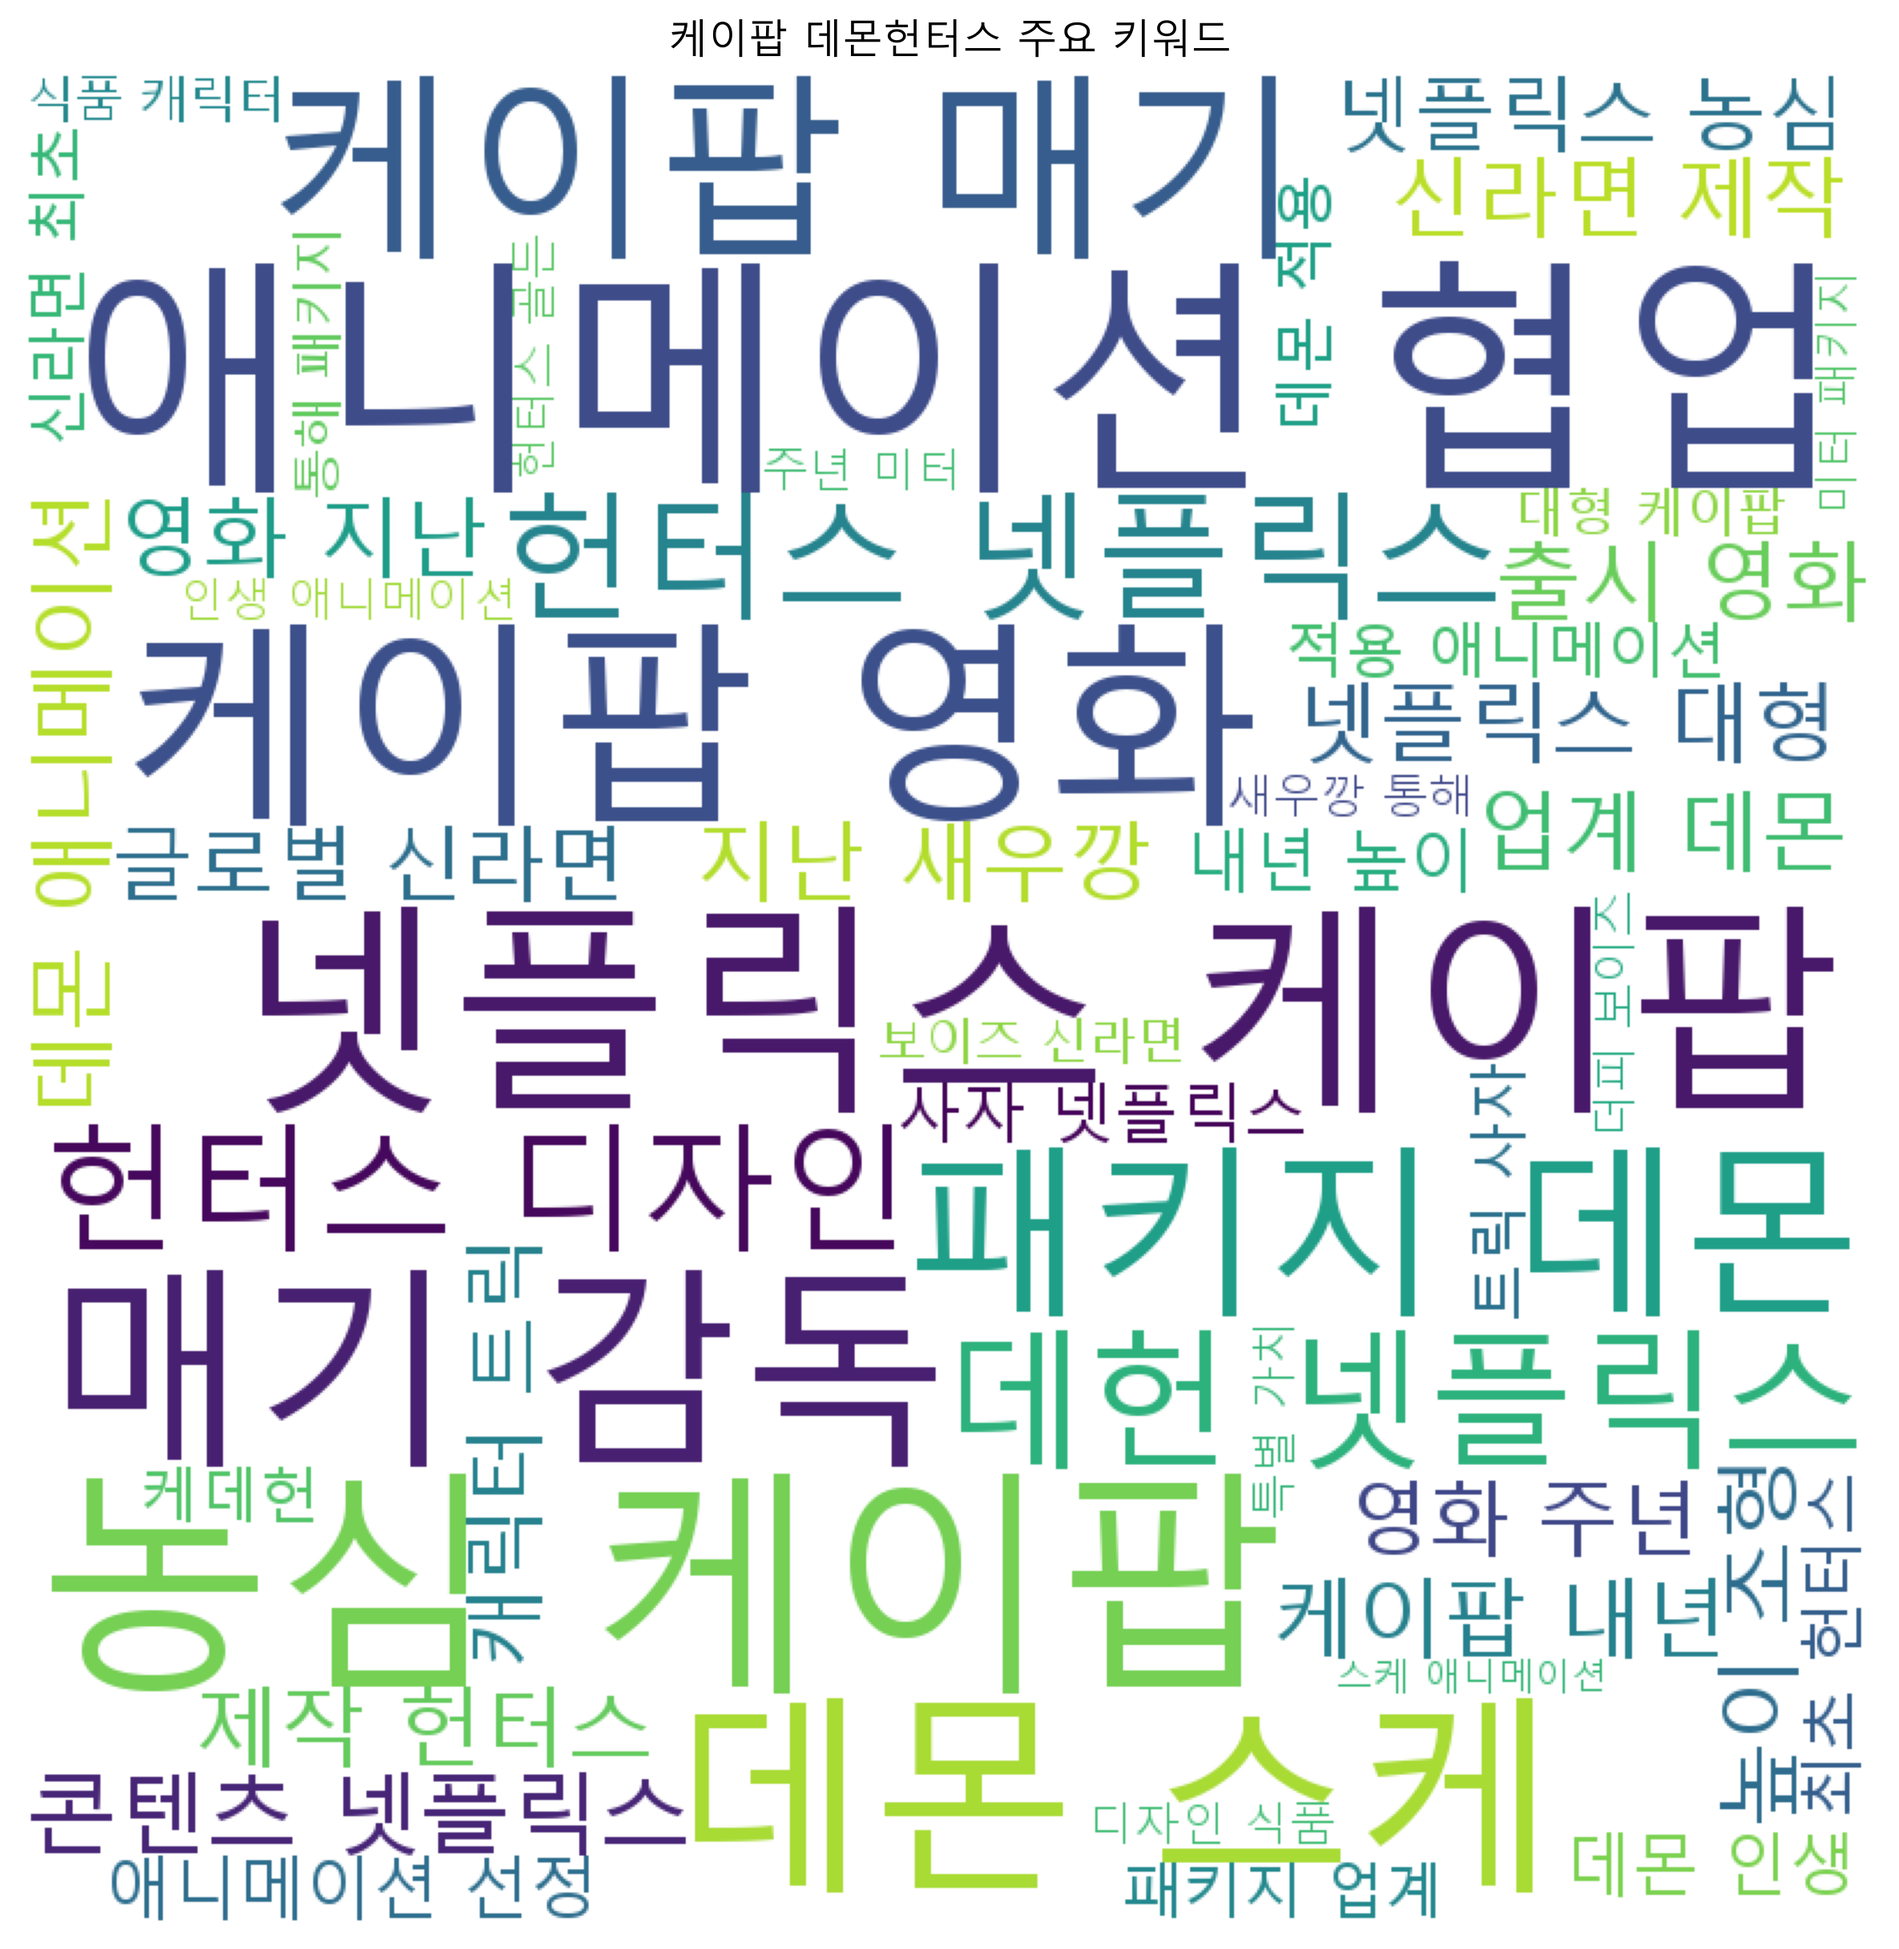
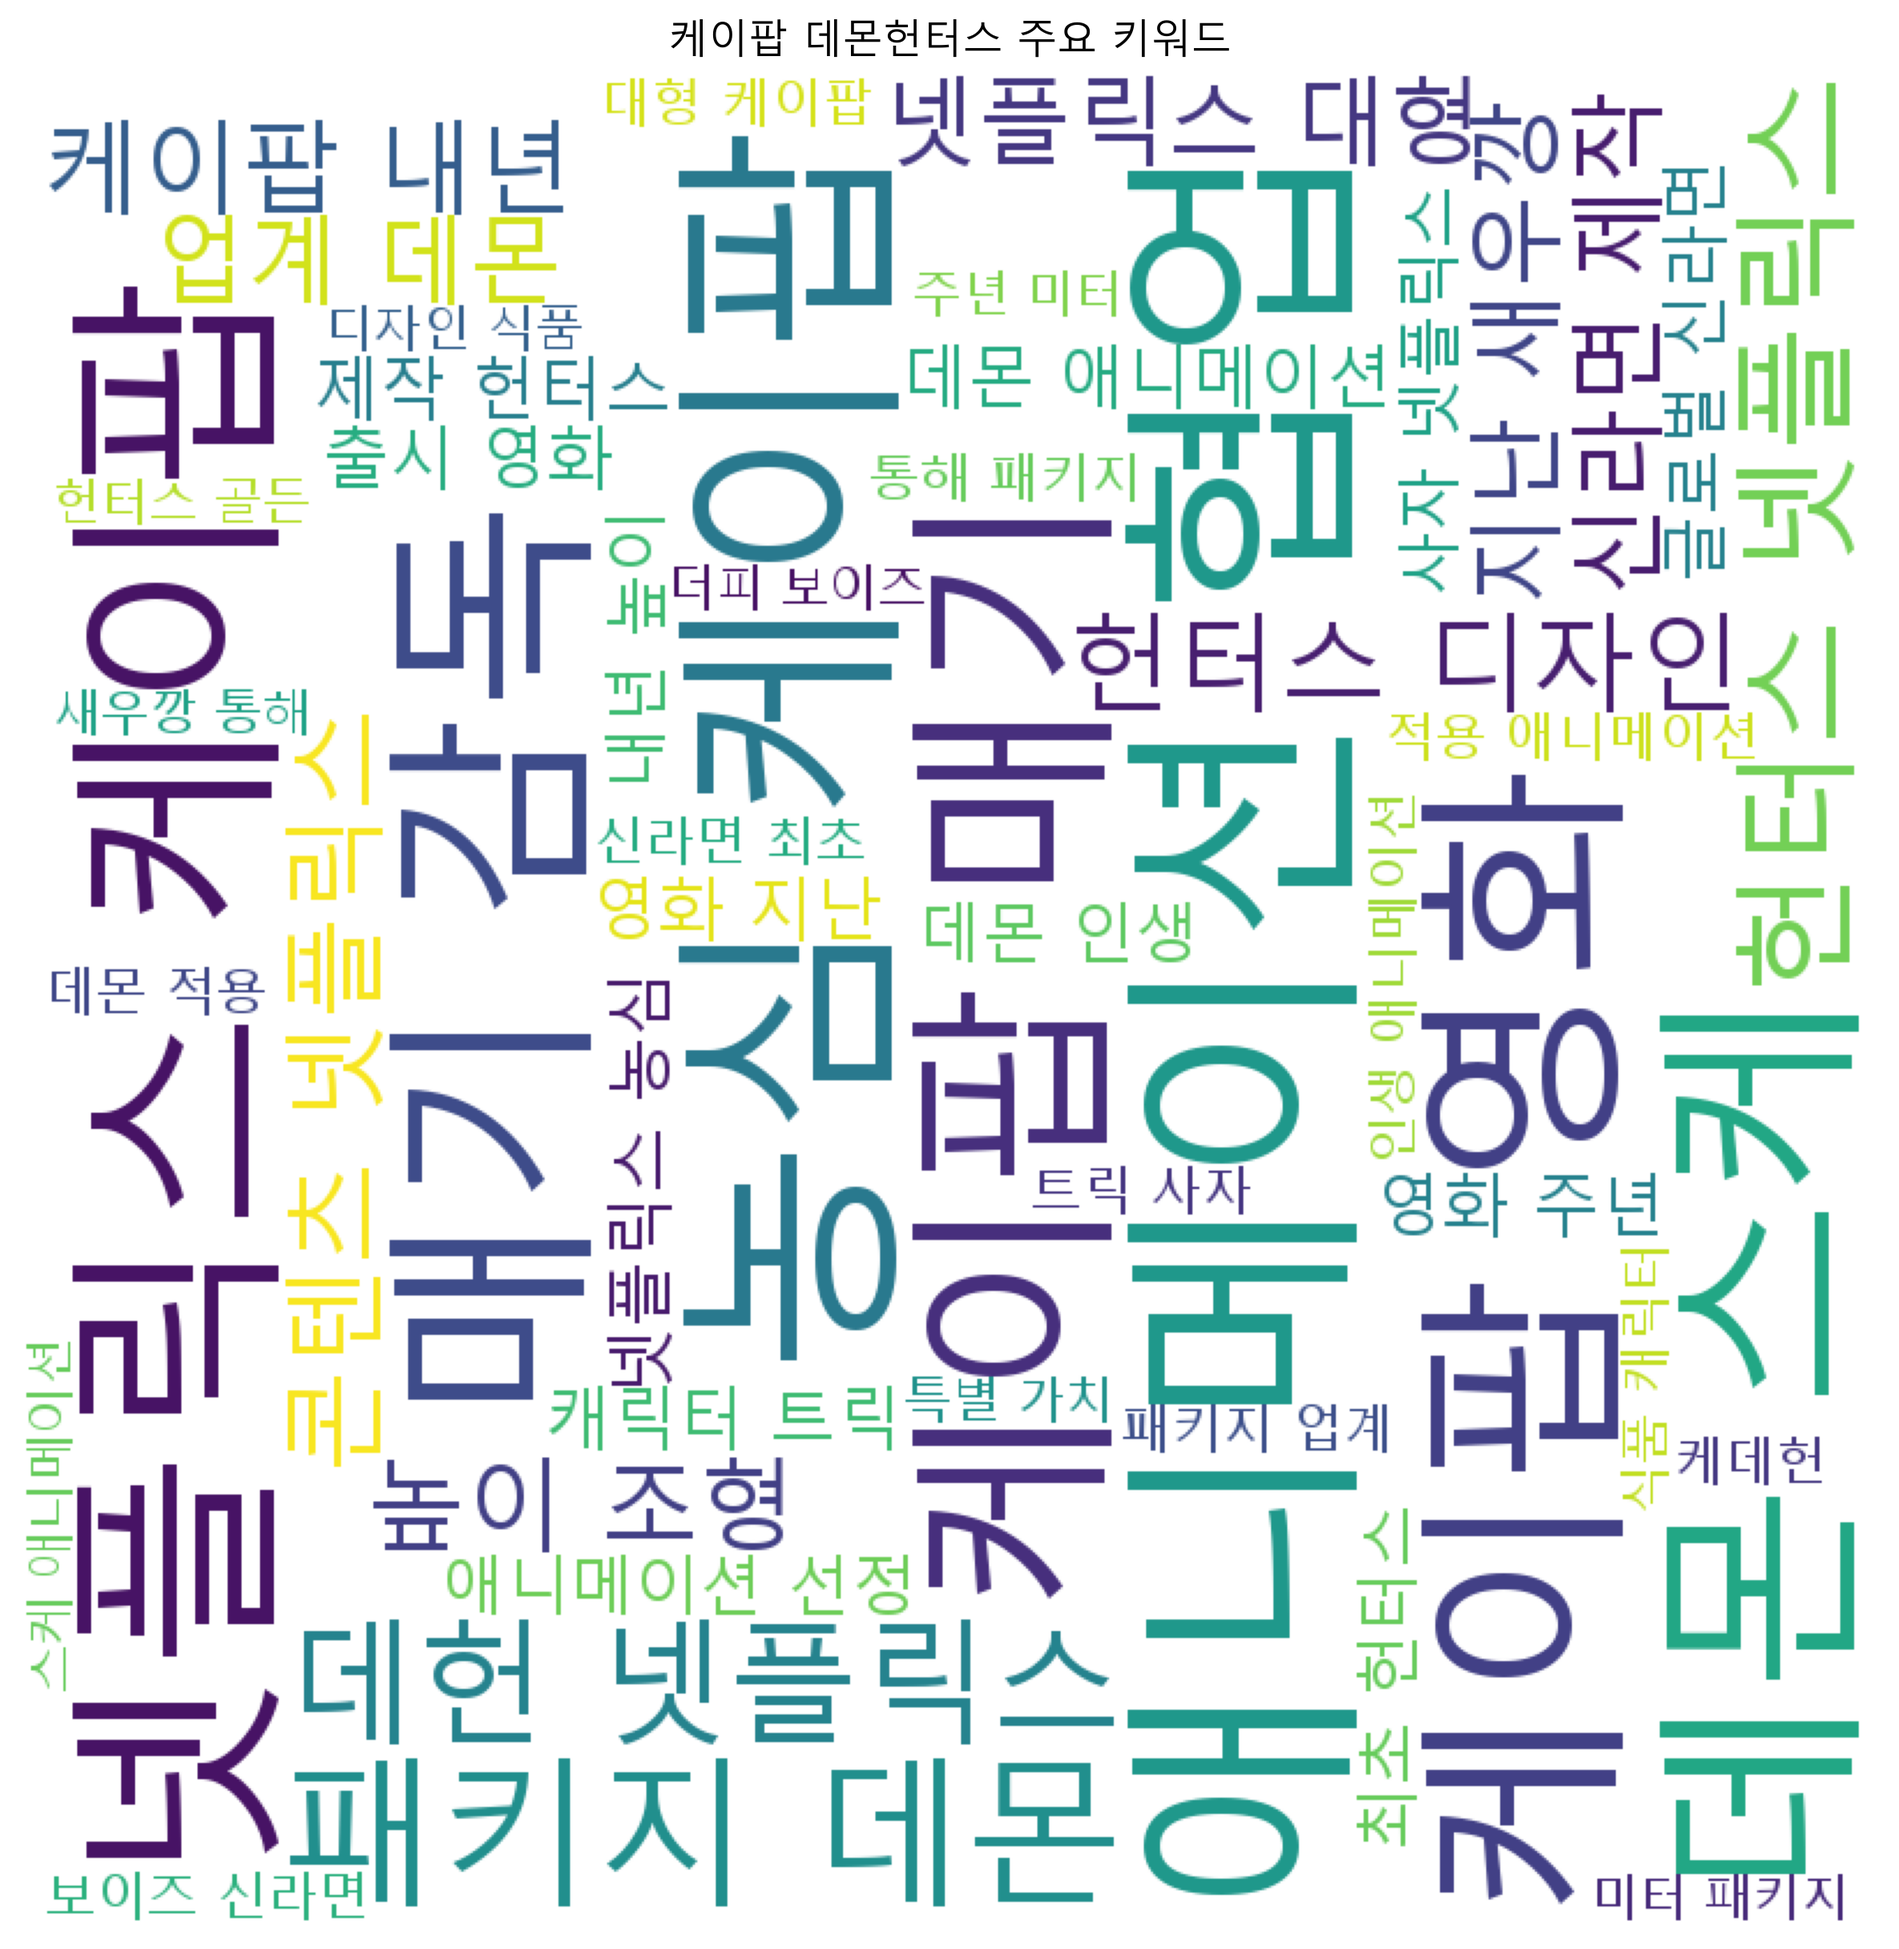
Add final streamlit dashboard and visualizations

diff --git a/streamlit_app.py b/streamlit_app.py
@@ -1,0 +1,176 @@
+import streamlit as st
+import pandas as pd
+import numpy as np
+from datetime import datetime
+import re
+from collections import Counter
+from itertools import combinations
+import matplotlib.pyplot as plt
+from matplotlib import font_manager
+import seaborn as sns
+import altair as alt
+import plotly.express as px
+from wordcloud import WordCloud
+import networkx as nx
+
+st.set_page_config(
+    page_title="Kpop Demon Hunters Analysis",
+    page_icon="📊",
+    layout="wide",
+    initial_sidebar_state="expanded"
+)
+
+st.title('C011208 최정아의 K팝 데몬 헌터스 팬덤 분석 보고서')
+st.divider()
+
+st.sidebar.header('📌 분석 옵션')
+st.sidebar.markdown('### 시각화 설정')
+
+viz_option = st.sidebar.selectbox(
+    '분석 유형을 선택하세요',
+    ['전체 개요', '워드클라우드', '네트워크 분석', '시간대별 패턴', '키워드 빈도', '날짜별 추이']
+)
+
+@st.cache_data
+def load_data():
+    df = pd.read_csv('kpop_demon_hunters_news.csv')
+    df['pubDate'] = pd.to_datetime(df['pubDate'])
+    return df
+
+df = load_data()
+
+show_data = st.sidebar.checkbox('원본 데이터 보기', value=False)
+
+if show_data:
+    st.subheader('📋 수집된 뉴스 데이터')
+    st.dataframe(df)
+    col1, col2, col3 = st.columns(3)
+    col1.metric("총 기사 수", len(df))
+    col2.metric("수집 기간", f"{df['pubDate'].min().date()} ~ {df['pubDate'].max().date()}")
+    col3.metric("평균 일일 기사 수", f"{len(df) / (df['pubDate'].max() - df['pubDate'].min()).days:.1f}")
+    st.divider()
+
+@st.cache_data
+def preprocess_text(df):
+    from konlpy.tag import Okt
+    okt = Okt()
+    with open('stop_str.txt', 'r', encoding='utf-8') as f:
+        stopwords = f.read().splitlines()
+    all_nouns = []
+    for text in df['description'].tolist():
+        text_cleaned = re.sub(r'[^가-힣\s]', '', str(text))
+        nouns = okt.nouns(text_cleaned)
+        nouns = [word for word in set(nouns) if (len(word) > 1) and (word not in stopwords)]
+        all_nouns.append(nouns)
+    return all_nouns
+
+with st.spinner('데이터 전처리 중...'):
+    all_nouns = preprocess_text(df)
+
+if viz_option == '전체 개요':
+    st.header('📊 팬덤 형성 핵심 요인 종합 분석')
+    st.markdown('''
+    ### 분석 목적
+    - 케이팝 데몬 헌터스에 대한 온라인 뉴스 데이터 분석
+    - 팬덤 형성의 핵심 요인을 다각도로 분석
+    - 데이터 기반 인사이트 제공
+    ''')
+    st.info('왼쪽 사이드바에서 분석 유형을 선택하세요', icon="ℹ")
+    st.subheader('기본 통계')
+    col1, col2 = st.columns(2)
+    with col1:
+        st.write('#### 날짜별 기사 개수')
+        df['date'] = df['pubDate'].dt.date
+        date_counts = df.groupby('date').size().reset_index(name='count')
+        st.line_chart(date_counts.set_index('date'))
+    with col2:
+        st.write('#### 시간대별 기사 개수')
+        df['hour'] = df['pubDate'].dt.hour
+        hour_counts = df.groupby('hour').size()
+        st.bar_chart(hour_counts)
+
+elif viz_option == '워드클라우드':
+    st.header('☁ 워드클라우드 분석')
+    max_words = st.sidebar.slider('표시할 최대 단어 수', min_value=20, max_value=100, value=50, step=10)
+    han_font_path = 'C:\\Windows\\Fonts\\malgun.ttf'
+    text = ' '.join([word for nouns in all_nouns for word in nouns])
+    wc = WordCloud(font_path=han_font_path, max_words=max_words, width=800, height=800, background_color='white', colormap='viridis').generate(text)
+    fig, ax = plt.subplots(figsize=(10, 10))
+    ax.imshow(wc)
+    ax.axis('off')
+    ax.set_title('케이팝 데몬헌터스 주요 키워드', size=20)
+    st.pyplot(fig)
+    st.success(f'총 {max_words}개의 키워드가 표시되었습니다', icon="✅")
+
+elif viz_option == '네트워크 분석':
+    st.header('🕸 키워드 네트워크 분석')
+    min_count = st.sidebar.number_input('최소 연결 빈도', min_value=5, max_value=50, value=20, step=5)
+    edge_list = []
+    for nouns in all_nouns:
+        if len(nouns) > 1:
+            edge_list.extend(combinations(sorted(nouns), 2))
+    edge_counts = Counter(edge_list)
+    filtered_edges = {edge: weight for edge, weight in edge_counts.items() if weight >= min_count}
+    if len(filtered_edges) == 0:
+        st.warning(f'최소 빈도 {min_count} 이상인 연결이 없습니다. 값을 낮춰보세요.', icon="⚠")
+    else:
+        G = nx.Graph()
+        weighted_edges = [(node1, node2, weight) for (node1, node2), weight in filtered_edges.items()]
+        G.add_weighted_edges_from(weighted_edges)
+        pos_spring = nx.spring_layout(G, k=0.3, iterations=50, seed=42)
+        node_sizes = [G.degree(node) * 100 for node in G.nodes()]
+        edge_widths = [G[u][v]['weight'] * 0.05 for u, v in G.edges()]
+        fig, ax = plt.subplots(figsize=(15, 15))
+        nx.draw_networkx(G, pos_spring, with_labels=True, node_size=node_sizes, width=edge_widths, font_family='Malgun Gothic', font_size=12, node_color='skyblue', edge_color='gray', alpha=0.8, ax=ax)
+        ax.set_title('케이팝 데몬헌터스 키워드 네트워크', size=20)
+        ax.axis('off')
+        st.pyplot(fig)
+        st.info(f'총 {len(G.nodes())}개의 키워드, {len(G.edges())}개의 연결이 표시되었습니다', icon="ℹ")
+
+elif viz_option == '시간대별 패턴':
+    st.header('🕐 요일별/시간대별 뉴스 발행 패턴')
+    day_order = ['Monday', 'Tuesday', 'Wednesday', 'Thursday', 'Friday', 'Saturday', 'Sunday']
+    selected_days = st.sidebar.multiselect('표시할 요일 선택', day_order, default=day_order)
+    df['day_of_week'] = df['pubDate'].dt.day_name()
+    df['hour'] = df['pubDate'].dt.hour
+    df_filtered = df[df['day_of_week'].isin(selected_days)]
+    heatmap_data = df_filtered.groupby(['day_of_week', 'hour']).size().reset_index(name='count')
+    heatmap_pivot = heatmap_data.pivot(index='day_of_week', columns='hour', values='count').fillna(0)
+    heatmap_pivot = heatmap_pivot.reindex([d for d in day_order if d in selected_days])
+    fig, ax = plt.subplots(figsize=(15, 6))
+    sns.heatmap(data=heatmap_pivot, annot=True, cmap="coolwarm", fmt=".0f", linewidths=.5, linecolor='black', ax=ax)
+    ax.set_title("요일별/시간대별 뉴스 발행 패턴", size=16)
+    ax.set_xlabel("시간대", size=12)
+    ax.set_ylabel("요일", size=12)
+    plt.tight_layout()
+    st.pyplot(fig)
+    st.success('히트맵을 통해 뉴스가 가장 많이 발행되는 시간대를 확인할 수 있습니다', icon="✅")
+
+elif viz_option == '키워드 빈도':
+    st.header('📊 상위 키워드 빈도 분석')
+    chart_type = st.sidebar.radio('차트 유형 선택', ['막대 그래프', '수평 막대 그래프'])
+    all_words = [word for nouns in all_nouns for word in nouns]
+    word_counts = Counter(all_words)
+    top_20 = word_counts.most_common(20)
+    df_keywords = pd.DataFrame(top_20, columns=['keyword', 'count'])
+    if chart_type == '막대 그래프':
+        chart = alt.Chart(df_keywords).mark_bar().encode(x=alt.X('keyword:N', sort='-y', title='키워드'), y=alt.Y('count:Q', title='빈도수'), color=alt.Color('count:Q', scale=alt.Scale(scheme='blues')), tooltip=['keyword', 'count']).properties(height=400, width=700, title='상위 20개 키워드 빈도')
+    else:
+        chart = alt.Chart(df_keywords).mark_bar().encode(y=alt.Y('keyword:N', sort='-x', title='키워드'), x=alt.X('count:Q', title='빈도수'), color=alt.Color('count:Q', scale=alt.Scale(scheme='greens')), tooltip=['keyword', 'count']).properties(height=500, width=700, title='상위 20개 키워드 빈도')
+    st.altair_chart(chart, use_container_width=True)
+    st.dataframe(df_keywords)
+
+elif viz_option == '날짜별 추이':
+    st.header('📈 날짜별 뉴스 기사 개수 추이')
+    df['date'] = df['pubDate'].dt.date
+    date_counts = df.groupby('date').size().reset_index(name='count')
+    fig = px.line(date_counts, x="date", y="count", markers=True, width=900, height=500, labels={'count': '기사 개수', 'date': '날짜'}, title="날짜별 뉴스 기사 개수 추이")
+    st.plotly_chart(fig, key="date_trend", on_select="rerun")
+    st.markdown('''
+    ### 인사이트
+    - 특정 날짜에 급증한 구간은 주요 이벤트(신규 에피소드 공개 등)와 연관
+    - 지속적인 언급량은 팬덤의 지속적인 관심도를 나타냄
+    ''')
+
+st.divider()
+st.caption('케이팝 데몬헌터스 팬덤 분석 대시보드 - 데이터 시각화 최종 프로젝트')
